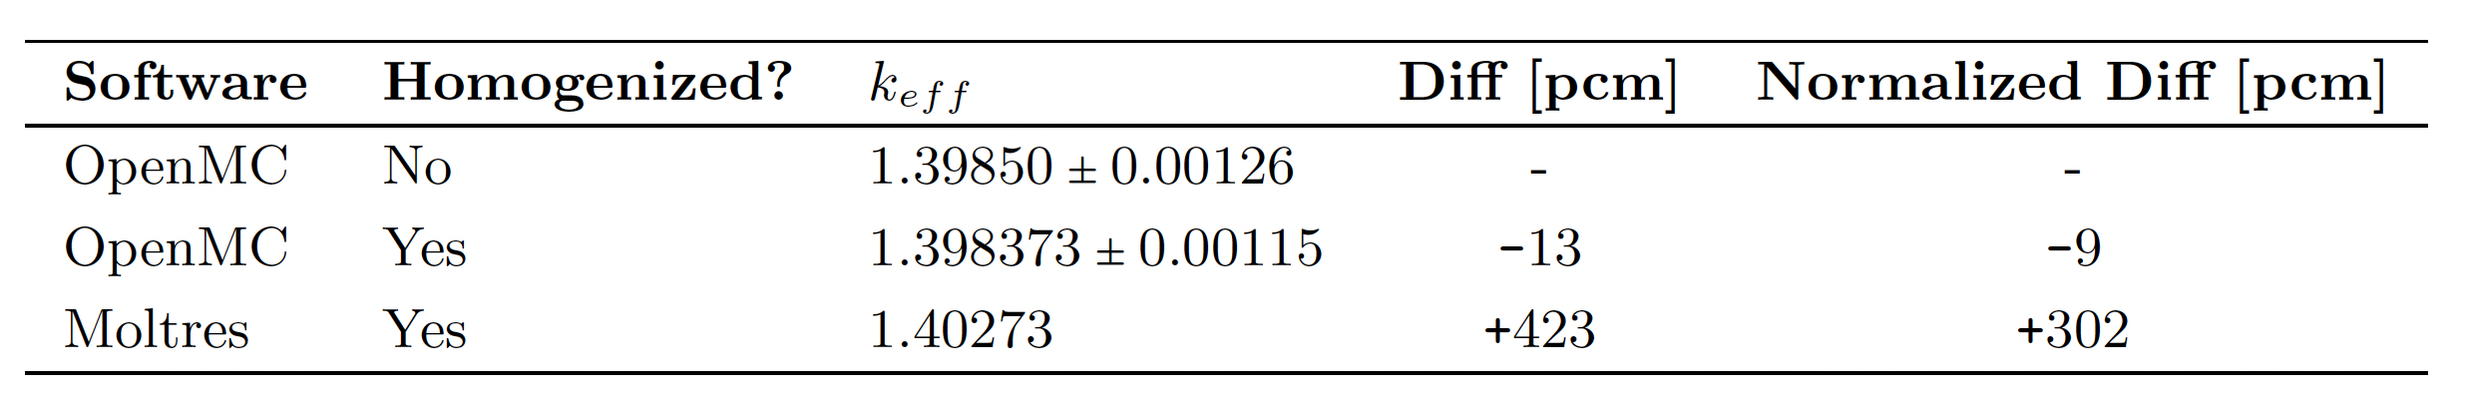
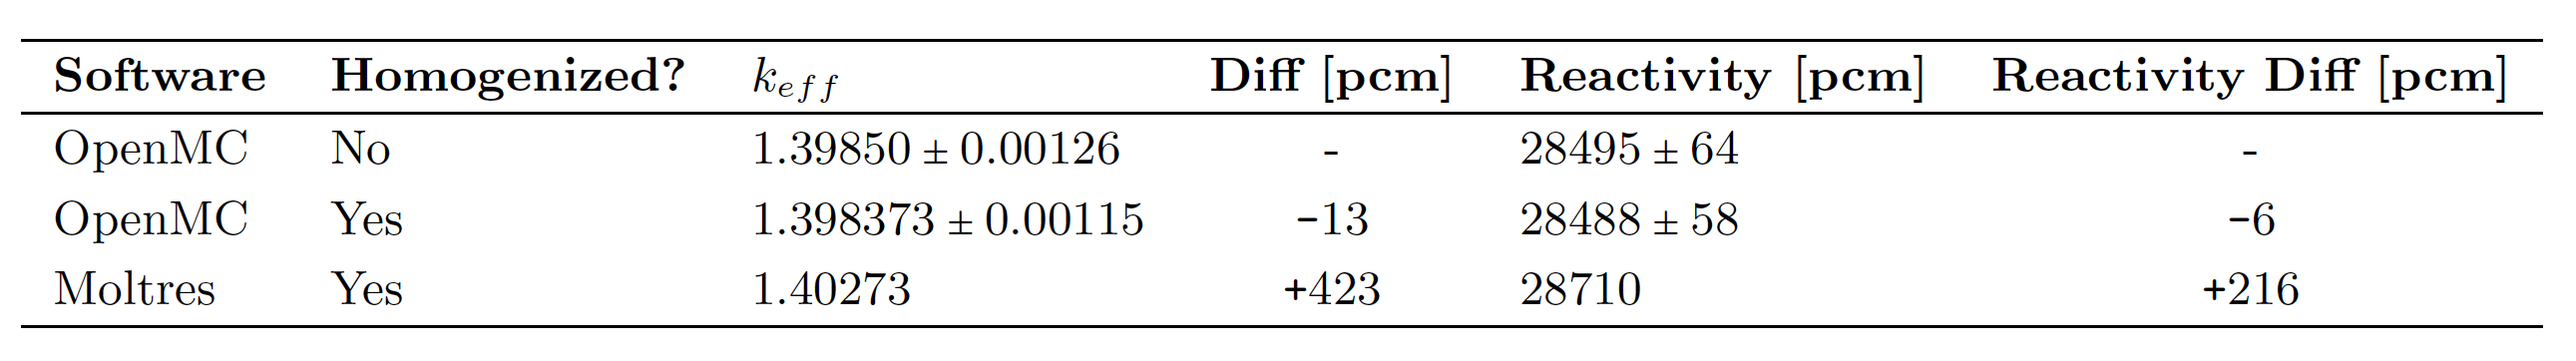
edits

diff --git a/pres/ahtr_model.tex b/pres/ahtr_model.tex
@@ -85,7 +85,7 @@
 \end{frame}
 
 \begin{frame}
-    \frametitle{AHTR Temp Model keff and reactivity coefficients Verification}
+    \frametitle{AHTR Temp Model $k_{eff}$ and Reactivity Coefficients Verification}
         \begin{table}
             \caption{ $k_{eff}$ comparison.}
             \includegraphics[width=0.85\linewidth]{figures/benchmark-keff.png}
